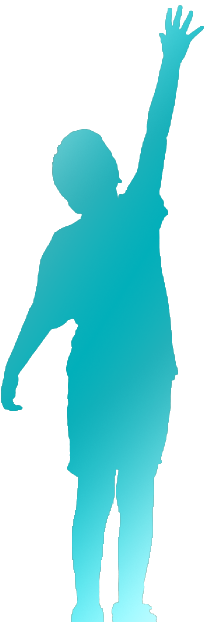
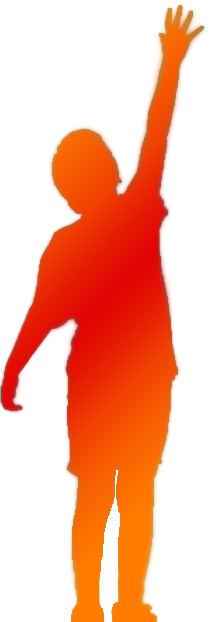
change color theme

diff --git a/src/components/Projects.js b/src/components/Projects.js
@@ -4,6 +4,8 @@ import VideoCards from "./VideoCards"
 import vita from "../assets/vita.gif"
 import ravenouse from "../assets/ravenouse.jpg"
 import budget from "../assets/budget.jpg"
+import first from "../assets/first.gif"
+import About from "../assets/About"
 
 const Projects = () => {
   return (
@@ -12,46 +14,33 @@ const Projects = () => {
       <div className="fbox">
         <VideoCards
           url={vita}
-          title={"Fancy angel"}
+          title={"Vita Smile Photograpy"}
           content={"Red heared angel with Yellow wings"}
+          git="https://github.com/Hex-Zero/VitaSmilePhotography"
+          web="https://vita-smile-photography.uk/"
         />
         <VideoCards
           url={ravenouse}
-          title={"Fancy angel"}
+          title={"Ravenouse"}
           content={"Red heared angel with Yellow wings"}
+          git=""
+          web=""
         />
-        <VideoCards url={budget} title={"Blade and Soul"} content={"Action packed anime series"} />
-
-        <VideoCards url={budget} title={"Blade and Soul"} content={"Action packed anime series"} />
-        <p className="About">
-          About Me <br /> Authoring of Custom Snippets in Emmet 2.0 via the snippets.json file
-          differs from the old way of doing the same in a few ways: Topic Old Emmet Emmet 2.0
-          Snippets vs Abbreviations Supports both in 2 separate properties called snippets and
-          abbreviations The 2 have been combined into a single property called snippets. See default
-          HTML snippets and CSS snippets CSS snippet names Can contain : Do not use : when defining
-          snippet names. It is used to separate property name and value when Emmet tries to fuzzy
-          match the given abbreviation to one of the snippets. CSS snippet values Can end with ; Do
-          not add ; at end of snippet value. Emmet will add the trailing ; based on the file type
-          (css/less/scss vs sass/stylus) or the emmet preference set for css.propertyEnd,
-          sass.propertyEnd, stylus.propertyEnd Cursor location or | can be used Use only textmate
-          syntax like for tab stops and cursor locations HTML Emmet snippets HTML custom snippets
-          are applicable to all other markup flavors like haml or jade. When snippet value is an
-          abbreviation and not actual HTML, the appropriate transformations can be applied to get
-          the right output as per the language type. For example, for an unordered list with a list
-          item, if your snippet value is ul>li, you can use the same snippet in html, haml, jade or
-          slim, but if your snippet value is then it will work only in html files. If you want a
-          snippet for plain text, then surround the text with the . CSS Emmet snippets Values for
-          CSS Emmet snippets should be a complete property name and value pair. CSS custom snippets
-          are applicable to all other stylesheet flavors like scss, less or sass. Therefore, don't
-          include a trailing ; at the end of the snippet value. Emmet will add it as needed based on
-          whether the language requires it. Do not use : in the snippet name. : is used to separate
-          property name and value when Emmet tries to fuzzy match the abbreviation to one of the
-          snippets. Note: After making changes to the snippets.json file, remember to reload VS Code
-          for it to take effect. Tab stops and cursors in custom snippets The syntax for tab stops
-          in custom Emmet snippets follows the Textmate snippets syntax. Use , for tab stops and for
-          tab stops with placeholders. Previously, | or was used to denote the cursor location in
-          the custom Emmet snippet. This is no longer supported. Use instead. Emmet configuration{" "}
-        </p>
+        <VideoCards
+          url={budget}
+          title={"Budget Calculator"}
+          content={"Action packed anime series"}
+          git=""
+          web=""
+        />
+        <VideoCards
+          url={first}
+          title={"My First Website"}
+          content={"Action packed anime series"}
+          git=""
+          web=""
+        />
+        <About />
       </div>
     </Styled>
   )
@@ -64,10 +53,10 @@ const Title = styled.h1`
   margin-top: 10px;
   text-align: center;
   width: 190px;
-  border: solid 4px #4ec3c9;
+  border: solid 4px #f86e00;
   border-radius: 4px;
   padding: 5px 10px 7px 10px;
-  color: #4ec3c9;
+  color: #f86e00;
   text-shadow: 1px 1px gray;
   box-shadow: 2px 2px #555;
   &:hover {
@@ -83,10 +72,10 @@ const Styled = styled.div`
     margin-top: 40px;
     text-align: center;
     width: 720px;
-    border: solid 4px #4ec3c9;
+    border: solid 4px #f86e00;
     border-radius: 4px;
     padding: 5px 10px;
-    color: #4ec3c9;
+    color: #f86e00;
 
     box-shadow: 2px 2px #555;
     font-size: 14px;

diff --git a/src/assets/About.js b/src/assets/About.js
@@ -1,0 +1,36 @@
+import React from "react"
+
+const About = () => {
+  return (
+    <p className="About">
+      About Me <br /> Authoring of Custom Snippets in Emmet 2.0 via the snippets.json file differs
+      from the old way of doing the same in a few ways: Topic Old Emmet Emmet 2.0 Snippets vs
+      Abbreviations Supports both in 2 separate properties called snippets and abbreviations The 2
+      have been combined into a single property called snippets. See default HTML snippets and CSS
+      snippets CSS snippet names Can contain : Do not use : when defining snippet names. It is used
+      to separate property name and value when Emmet tries to fuzzy match the given abbreviation to
+      one of the snippets. CSS snippet values Can end with ; Do not add ; at end of snippet value.
+      Emmet will add the trailing ; based on the file type (css/less/scss vs sass/stylus) or the
+      emmet preference set for css.propertyEnd, sass.propertyEnd, stylus.propertyEnd Cursor location
+      or | can be used Use only textmate syntax like for tab stops and cursor locations HTML Emmet
+      snippets HTML custom snippets are applicable to all other markup flavors like haml or jade.
+      When snippet value is an abbreviation and not actual HTML, the appropriate transformations can
+      be applied to get the right output as per the language type. For example, for an unordered
+      list with a list item, if your snippet value is ul>li, you can use the same snippet in html,
+      haml, jade or slim, but if your snippet value is then it will work only in html files. If you
+      want a snippet for plain text, then surround the text with the . CSS Emmet snippets Values for
+      CSS Emmet snippets should be a complete property name and value pair. CSS custom snippets are
+      applicable to all other stylesheet flavors like scss, less or sass. Therefore, don't include a
+      trailing ; at the end of the snippet value. Emmet will add it as needed based on whether the
+      language requires it. Do not use : in the snippet name. : is used to separate property name
+      and value when Emmet tries to fuzzy match the abbreviation to one of the snippets. Note: After
+      making changes to the snippets.json file, remember to reload VS Code for it to take effect.
+      Tab stops and cursors in custom snippets The syntax for tab stops in custom Emmet snippets
+      follows the Textmate snippets syntax. Use , for tab stops and for tab stops with placeholders.
+      Previously, | or was used to denote the cursor location in the custom Emmet snippet. This is
+      no longer supported. Use instead. Emmet configuration{" "}
+    </p>
+  )
+}
+
+export default About

diff --git a/src/components/VideoCards.js b/src/components/VideoCards.js
@@ -22,11 +22,13 @@ const VideoCards = ({ url, title, content, git, web }) => {
           <h1 className="title">{title}</h1>
           <p className="content">{content}</p>
           <div className="links">
-            <a className="git" href={git}>
-              <FaGithub />
-            </a>
-            <a className="web" href={web}>
+            <a className="web " href={web} target="__blank">
               <FaGlobe />
+              <P>Web</P>
+            </a>
+            <a className="git" href={git} target="__blank">
+              <FaGithub />
+              <P>Git</P>
             </a>
           </div>
         </Slide>
@@ -53,17 +55,16 @@ const slideout = keyframes`
   
 `
 const Slide = styled.div`
-  color: White;
+  color: #f86e00;
   margin-left: 100%;
-  text-shadow: 1px 1px red;
+  text-shadow: 2px 1px black;
   background-image: url(${slide1});
-  background-size: 100% 101%;
+  background-size: 100%;
   width: 100%;
   height: 100%;
   position: relative;
   animation: ${props => props.animation} 1.5s ease forwards;
 `
-
 const Video = styled.div`
   width: 100%;
   height: 100%;
@@ -72,12 +73,20 @@ const Video = styled.div`
   background-repeat: no-repeat;
   background-size: 100% 100%;
 `
+const P = styled.p`
+  font-size: 12px;
+`
 
 const Stlyed = styled.div`
   a {
+    display: flex;
+    margin-left: 5px;
     color: white;
     text-decoration: none;
-    font-size: 30px;
+    font-size: 27px;
+    &:hover {
+      color: #fdefef;
+    }
   }
   .card {
     margin-right: 0;
@@ -89,12 +98,20 @@ const Stlyed = styled.div`
     z-index: 1;
   }
   .links {
+    display: flex;
     position: absolute;
     bottom: 10px;
-    right: 160px;
+    right: 240px;
   }
   .web {
     margin-left: 20px;
+  }
+
+  @media only screen and (max-width: 600px) {
+    .links {
+      bottom: 5px;
+      right: 180px;
+    }
   }
 `
 

diff --git a/src/components/Background.js b/src/components/Background.js
@@ -166,14 +166,14 @@ const Styled = styled.div`
 
   .box {
     color: white;
-    border-radius: 8px;
+    border-radius: 5px;
     width: 1vw;
     height: 1vw;
-    background: radial-gradient(
-      ellipse at center,
-      rgba(3, 228, 255, 1) 0%,
-      rgba(226, 238, 255, 1) 70%,
-      rgba(228, 240, 255, 1) 100%
+    background: linear-gradient(
+      355deg,
+      rgba(255, 255, 255, 0.5) 0%,
+      rgba(255, 165, 0, 0.5) 47%,
+      rgba(255, 255, 255, 0.5) 100%
     );
   }
   .fallFastest {
